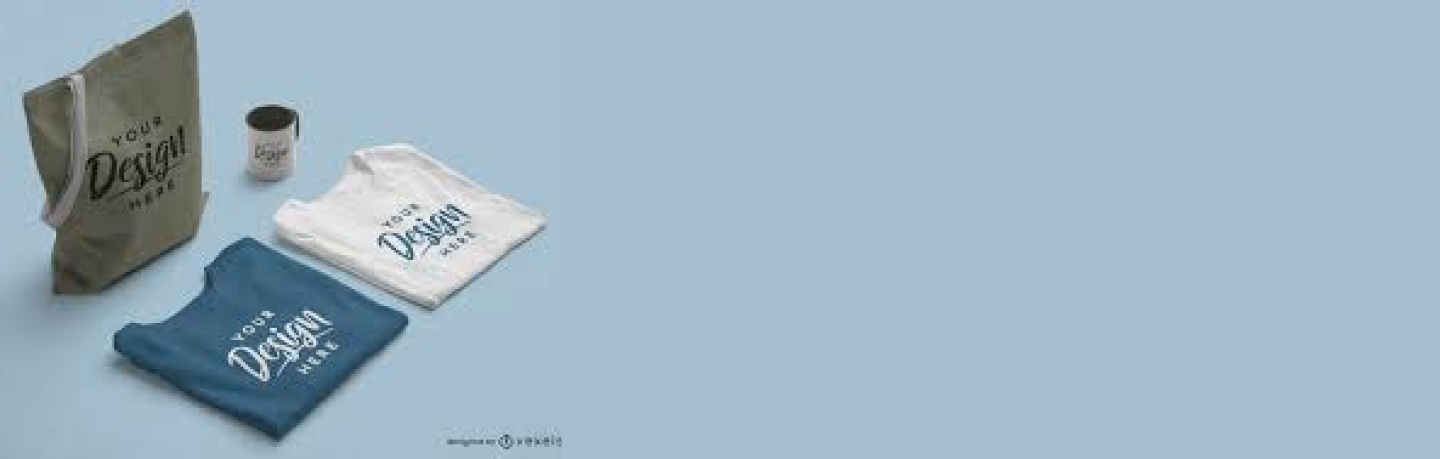
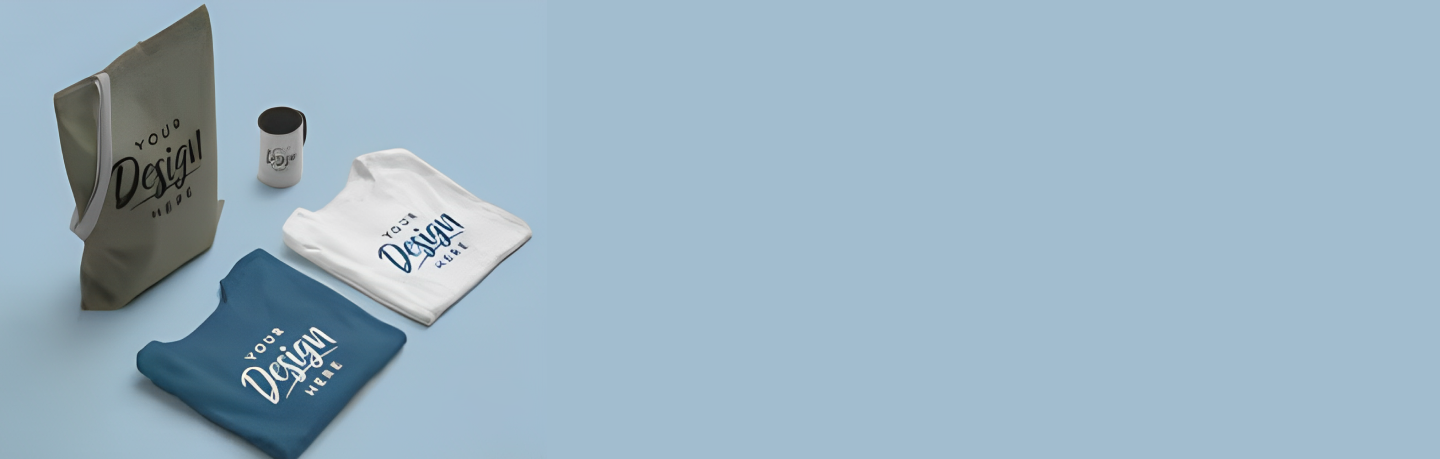
Add Responsive Merchandise

Changed region(s): [[0.0, 0.0, 0.375, 1.0], [0.3125, 0.9455, 0.4062, 0.976]]

diff --git a/resources/views/downloads/index.blade.php b/resources/views/downloads/index.blade.php
@@ -1,0 +1,112 @@
+@extends('layouts.app')
+
+@section('title', 'Download Asset ISR')
+
+@section('content')
+    <div class="px-20 py-28 bg-white">
+        <div class="flex flex-row gap-10">
+            <div class="md:w-1/3 flex py-3 flex-col">
+                <div class="container bg-[#0D5568] px-5 pt-4 pb-10">
+                    <div class="flex justify-center pb-2">
+                        <p class="text-[25px] font-bold" style="color: white;">
+                            DOWNLOAD
+                        </p>
+                    </div>
+                    <a href="#">
+                        <div class="min-h-[35px] px-2 py-4 container" style="border-bottom: 1px solid #f5d05e;">
+                            <p class="text-[15px] font-light" style="color: white;">
+                                SOP Media Partner
+                            </p>
+                        </div>
+                    </a>
+                    <a href="#">
+                        <div class="min-h-[35px] px-2 py-4 container" style="border-bottom: 1px solid #f5d05e;">
+                            <p class="text-[15px] font-light" style="color: white;">
+                                SOP Publikasi
+                            </p>
+                        </div>
+                    </a>
+                    <a href="#">
+                        <div class="min-h-[35px] px-2 py-4 container" style="border-bottom: 1px solid #f5d05e;">
+                            <p class="text-[15px] font-light" style="color: white;">
+                                SOP Kesekertariatan
+                            </p>
+                        </div>
+                    </a>
+                    <a href="#">
+                        <div class="min-h-[35px] px-2 py-4 container" style="border-bottom: 1px solid #f5d05e;">
+                            <p class="text-[15px] font-light" style="color: white;">
+                                Asset ISR
+                            </p>
+                        </div>
+                    </a>
+                </div>
+            </div>
+            <div class="flex flex-col md:w-2/3">
+                <div class="pb-5">
+                    <div class="w-full flex border-b-2 border-b-[#0D5568] p-3">
+                        <p class="text-xl font-bold">DOWNLOAD ASSET ISR</p>
+                    </div>
+                </div>
+                <div class="bg-white px-4">
+                    <div class="flex flex-col gap-4">
+                        @foreach ($download as $item)
+                            <a href="{{ route('downloads.show', $item->slug) }}">
+                                <div class="flex flex-col gap-2"
+                                    style="border: 1px solid #0D5568; border-radius: 8px; padding: 7px;">
+                                    <div class="px-3">
+                                        <p class="text-xl font-bold">{{ $item->title }}</p>
+                                        <div class="flex flex-row gap-7">
+                                            <div class="flex flex-row gap-2">
+                                                <div class="h-4 w-4">
+                                                    <img src="/images/profileIcon.svg" alt="user">
+                                                </div>
+                                                <p class="text-sm">Oleh: {{ $item->user->name }}</p>
+                                            </div>
+                                            <div class="flex flex-row gap-2">
+                                                <div class="h-4 w-4">
+                                                    <img src="/images/clockIcon.svg" alt="jam">
+                                                </div>
+                                                <p class="text-sm">
+                                                    {{ \Carbon\Carbon::parse($item->published_at)->format('d F Y, H:i') }}
+                                                </p>
+                                            </div>
+                                            <div class="flex flex-row gap-2">
+                                                <div class="h-4 w-4">
+                                                    <img src="/images/attachmentIcon.svg" alt="file">
+                                                </div>
+                                                <p class="text-sm">
+                                                    @php
+                                                        $attachmentCount = 0;
+                                                        foreach ($item->content as $content) {
+                                                            if (
+                                                                isset($content['type']) &&
+                                                                $content['type'] === 'attachments'
+                                                            ) {
+                                                                $attachmentCount++;
+                                                            }
+                                                        }
+                                                    @endphp
+
+                                                    @if ($attachmentCount > 0)
+                                                        {{ $attachmentCount }}
+                                                        {{ $attachmentCount > 1 ? 'Attachments Available' : 'Attachment Available' }}
+                                                    @else
+                                                        No Attachment
+                                                    @endif
+                                                </p>
+                                            </div>
+                                        </div>
+                                        <div class="py-3">
+                                            <hr style="border-color: #000000; border-width: 1/2px;">
+                                        </div>
+                                    </div>
+                                </div>
+                            </a>
+                        @endforeach
+                    </div>
+                </div>
+            </div>
+        </div>
+    </div>
+@endsection

diff --git a/resources/views/merchandise/show.blade.php b/resources/views/merchandise/show.blade.php
@@ -4,26 +4,40 @@
 
 @section('content')
     <div class="flex flex-col">
-        <div class="py-24 px-20 flex flex-row items-center justify-center">
-            <div class="w-3/4 bg-white border border-gray-200 shadow dark:bg-gray-800 dark:border-gray-700">
-                <a href="#">
-                    <img class="p-3 w-full h-[450px]" src="{{ $merchandise->getFirstMediaUrl() }}" alt="merchandise-image" />
-                </a>
-                <div class="p-3">
-                    <p class="mb-3 text-4xl  font-normal text-[#0D5568] dark:text-gray-400">Rp. {{ $merchandise->price }}
-                    </p>
-                    <a href="#">
-                        <h5 class="mb-2 text-3xl font-bold tracking-tight text-gray-900 dark:text-white">
-                            {{ $merchandise->title }}</h5>
-                    </a>
-                    <h2 class="text-[#0D5568] text-xl py-2">Deskripsi Produk</h2>
-                    <p class="text-2xl">{!! $merchandise->description !!}</p>
-                </div>
-                <div class="p-5 flex items-center justify-center">
-                    <a href="#"
-                        class="flex items-center justify-center px-3 py-2 w-3/4 h-[100px] text-4xl font-medium text-center text-white bg-[#0D5568] hover:bg-blue-800 focus:ring-4 focus:outline-none focus:ring-blue-300 dark:bg-blue-600 dark:hover:bg-blue-700 dark:focus:ring-blue-800">
-                        BELI SEKARANG
-                    </a>
+        <div class="flex flex-row">
+            <img src="/images/showMerchandise.png" alt="merchandise" class="h-full w-full object-cover">
+            <div class="flex justify-end items-center">
+                <h1 class="font-black text-xl sm:text-4xl md:text-5xl lg:text-7xl absolute text-white pr-20">DETAIL PRODUK
+                </h1>
+            </div>
+        </div>
+        <div class="py-5 flex flex-row items-center justify-center">
+            <div
+                class="w-11/12 sm:w-5/6 md:w-4/5 lg:w-3/4 bg-white border border-gray-200 shadow dark:bg-gray-800 dark:border-gray-700">
+                <div class="flex flex-col justify-center mx-auto w-10/12">
+                    <div class="">
+                        <img class="py-3 w-full" src="{{ $merchandise->getFirstMediaUrl() }}" alt="merchandise-image" />
+                    </div>
+                    <div class="flex flex-col justify-start">
+                        <p class="mb-3 text-xl sm:text-3xl md:text-4xl font-bold text-[#0D5568] dark:text-gray-400">
+                            Rp. {{ $merchandise->price }}
+                        </p>
+                        <a href="#">
+                            <h5
+                                class="mb-2 text-xl sm:text-3xl md:text-4xl font-bold tracking-tight text-gray-900 dark:text-white">
+                                {{ $merchandise->title }}</h5>
+                        </a>
+                        <div class="container bg-gray-200 px-3">
+                            <h2 class="text-[#0D5568] font-bold text-lg sm:text-xl md:text-2xl py-2">Deskripsi Produk</h2>
+                            <p class="text-2xl">{!! $merchandise->description !!}</p>
+                        </div>
+                    </div>
+                    <div class="py-7 flex items-center justify-center">
+                        <a href="#"
+                            class="flex items-center justify-center py-2 w-full h-[50px] text-xl sm:text-2xl md:text-3xl font-medium text-center text-white bg-[#0D5568] hover:bg-blue-800 focus:ring-4 focus:outline-none focus:ring-blue-300 dark:bg-blue-600 dark:hover:bg-blue-700 dark:focus:ring-blue-800">
+                            BELI SEKARANG
+                        </a>
+                    </div>
                 </div>
             </div>
         </div>

diff --git a/resources/views/downloads/show.blade.php b/resources/views/downloads/show.blade.php
@@ -5,7 +5,7 @@
 @section('content')
     <div class="px-20 py-28 bg-white">
         <div class="flex flex-row gap-10">
-            <div class="md:w-1/3 flex py-3 flex-col">
+            <div class="md:w-3/7 flex py-3 flex-col">
                 <div class="container bg-[#0D5568] px-5 pt-4 pb-10">
                     <div class="flex justify-center pb-2">
                         <p class="text-[25px] font-bold" style="color: white;">
@@ -42,7 +42,7 @@
                     </a>
                 </div>
             </div>
-            <div class="flex flex-col md:w-2/3">
+            <div class="flex flex-col md:w-4/7">
                 <div class="bg-white px-4">
                     @foreach ($download->content as $downloads)
                         @if ($downloads['type'] === 'heading')
@@ -50,10 +50,10 @@
                                 <p class="text-[25px] font-black">{!! $downloads['data']['content'] !!}</p>
                             </div>
                         @elseif ($downloads['type'] === 'image')
-                        <div class="flex justify-center">
-                            <img src="{{ asset('storage/' . $downloads['data']['url']) }}" alt="{{ $downloads['data']['alt'] }}"
-                                class="mb-4">
-                        </div>
+                            <div class="flex justify-center">
+                                <img src="{{ asset('storage/' . $downloads['data']['url']) }}"
+                                    alt="{{ $downloads['data']['alt'] }}" class="mb-4">
+                            </div>
                         @elseif ($downloads['type'] === 'paragraph')
                             <div class="py-3">
                                 <p>{!! $downloads['data']['content'] !!}</p>
@@ -64,8 +64,9 @@
                                     <div
                                         class="container mx-auto w-2/4 bg-gray-200 max-h-[250px] min-w-64 border border-gray-400">
                                         <div class="md:h-4/5 flex justify-center">
-                                            <img src="https://icons.veryicon.com/png/o/file-type/file-type-8/word-92.png"
-                                                alt="fileIcon" width="175" height="200">
+                                            <iframe
+                                                src="{{ asset('storage/' . $downloads['data']['url'][0]) }}#page=1&view=fitH"
+                                                alt="fileIcon" style="width: 75%; height: auto;"></iframe>
                                         </div>
                                         <div class="container md:h-1/5 bg-white px-2 py-2 mx-auto my-auto min-h-[50px]">
                                             <div class="flex flex-row justify-between">

diff --git a/resources/views/livewire/merchandise-list.blade.php b/resources/views/livewire/merchandise-list.blade.php
@@ -1,21 +1,22 @@
 <div>
-    <div class="flex flex-row gap-5">
+    <div class="grid grid-cols-1 sm:grid-cols-2 md:grid-cols-3 lg:grid-cols-4 gap-6">
         @foreach ($this->merchandises as $merchandise)
-            <div class="w-[250px] bg-white border border-gray-200 shadow dark:bg-gray-800 dark:border-gray-700">
+            <div class="w-full bg-white border border-gray-200 shadow dark:bg-gray-800 dark:border-gray-700">
                 <a href="{{ route('merchandise.show', $merchandise->slug) }}">
-                    <img class="p-3 w-fit h-[225px]" src="{{ $merchandise->getFirstMediaUrl() }}"
+                    <img class="px-5 py-3 w-fit h-[200px]" src="{{ $merchandise->getFirstMediaUrl() }}"
                         alt="merchandise-image" />
                 </a>
-                <div class="p-3">
-                    <a href="#">
-                        <h5 class="mb-2 text-base font-bold tracking-tight text-gray-900 dark:text-white">
-                            {{ $merchandise->title }}</h5>
+                <div class="px-5">
+                    <a href="{{ route('merchandise.show', $merchandise->slug) }}">
+                        <h2 class="mb-2 text-xl font-semibold tracking-tight text-gray-900 dark:text-white">
+                            {{ $merchandise->title }}</h2>
                     </a>
-                    <p class="mb-3 text-lg font-normal text-[#0D5568] dark:text-gray-400">Rp. {{ $merchandise->price }}
+                    <p class="mb-3 text-lg font-semibold text-[#0D5568] dark:text-gray-400">Rp.
+                        {{ number_format($merchandise->price, 0, ',', '.') }}
                     </p>
-                    <div class="flex items-center justify-center">
-                        <a href="#"
-                            class="items-center justify-center px-3 py-2 w-[150px] text-sm font-medium text-center text-white bg-[#0D5568] hover:bg-blue-800 focus:ring-4 focus:outline-none focus:ring-blue-300 dark:bg-blue-600 dark:hover:bg-blue-700 dark:focus:ring-blue-800">
+                    <div class="flex items-center justify-center pb-5">
+                        <a href="{{ $merchandise->link_buy }}"
+                            class="items-center justify-center rounded px-3 py-2 w-3/4 text-sm font-medium text-center text-white bg-[#0D5568] hover:bg-blue-800 focus:ring-4 focus:outline-none focus:ring-blue-300 dark:bg-blue-600 dark:hover:bg-blue-700 dark:focus:ring-blue-800">
                             BELI
                         </a>
                     </div>

diff --git a/resources/views/home.blade.php b/resources/views/home.blade.php
@@ -687,15 +687,12 @@
                                         },
 
                                         async fetchEvents() {
-                                            // You can directly embed PHP code to fetch agenda data from your database here
-                                            // Make sure to format the data as per your JavaScript needs
-                                            // For example:
                                             this.events = {!! json_encode(
                                                 $agenda->map(function ($agenda) {
                                                     return [
                                                         'event_title' => $agenda->title,
                                                         'event_date' => $agenda->date,
-                                                        'event_theme' => $agenda->bg_color, // Set the default theme to blue
+                                                        'event_theme' => $agenda->bg_color,
                                                     ];
                                                 }),
                                             ) !!};

diff --git a/resources/views/merchandise/index.blade.php b/resources/views/merchandise/index.blade.php
@@ -1,17 +1,18 @@
-@extends("layouts.app")
+@extends('layouts.app')
 
-@section("title", "Merchandise of ISR")
+@section('title', 'Merchandise of ISR')
 
-@section("content")
+@section('content')
     <div class="flex flex-col">
         <div class="flex flex-row">
             <img src="/images/merchandise.png" alt="merchandise" class="h-full w-full object-cover">
             <div class="flex justify-end items-center">
-                <h1 class="font-bold text-[64px] absolute text-white pr-10">MERCHANDISE OF ISR</h1>
+                <h1 class="font-black text-xl sm:text-4xl md:text-5xl lg:text-7xl absolute text-white pr-10">MERCHANDISE OF
+                    ISR</h1>
             </div>
         </div>
-        <div class="py-5 px-10 flex flex-row">
-            @livewire("merchandise-list")
+        <div class="max-w-6xl mx-auto px-4 sm:px-6 lg:px-4 py-12">
+            @livewire('merchandise-list')
         </div>
     </div>
 @endsection

diff --git a/routes/web.php b/routes/web.php
@@ -31,6 +31,7 @@ Route::get('/abouts/{organizational:slug}', [OrganizationalController::class, 's
 Route::get('/merchandise', [MerchandiseController::class, 'index'])->name('merchandise.index');
 Route::get('/merchandise/{merchandise:slug}', [MerchandiseController::class, 'show'])->name('merchandise.show');
 
+Route::get('/download', [DownloadController::class, 'index'])->name('downloads.index');
 Route::get('/download/{download:slug}', [DownloadController::class, 'show'])->name('downloads.show');
 
 // Route::middleware([

diff --git a/resources/views/livewire/navigation.blade.php b/resources/views/livewire/navigation.blade.php
@@ -138,7 +138,7 @@
                         </div>
                     </div>
                 </a>
-                <a id="menu-download" href="#"
+                <a id="menu-download" href="{{ route('downloads.index') }}"
                     class="flex flex-row w-[285px] h-[80px] items-center justify-between px-2">
                     <div class="flex flex-row">
                         <img src="/images/navbar/download.svg" alt="download" class="w-[50px] h-[50px]">

diff --git a/app/Http/Controllers/DownloadController.php b/app/Http/Controllers/DownloadController.php
@@ -7,6 +7,18 @@ use Illuminate\Http\Request;
 
 class DownloadController extends Controller
 {
+    public function index()
+    {
+        $download = Download::published()->take(10)->get();
+
+        return view(
+            'downloads.index',
+            [
+                'download' => $download
+            ]
+        );
+    }
+
     public function show(Download $download)
     {
         return view(

diff --git a/app/Livewire/MerchandiseList.php b/app/Livewire/MerchandiseList.php
@@ -14,7 +14,7 @@ class MerchandiseList extends Component
     #[Computed()]
     public function merchandises()
     {
-        return Merchandise::published()->orderBy('published_at', 'desc')->paginate(1);
+        return Merchandise::published()->orderBy('published_at', 'desc')->paginate(12);
     }
 
     public function render()
